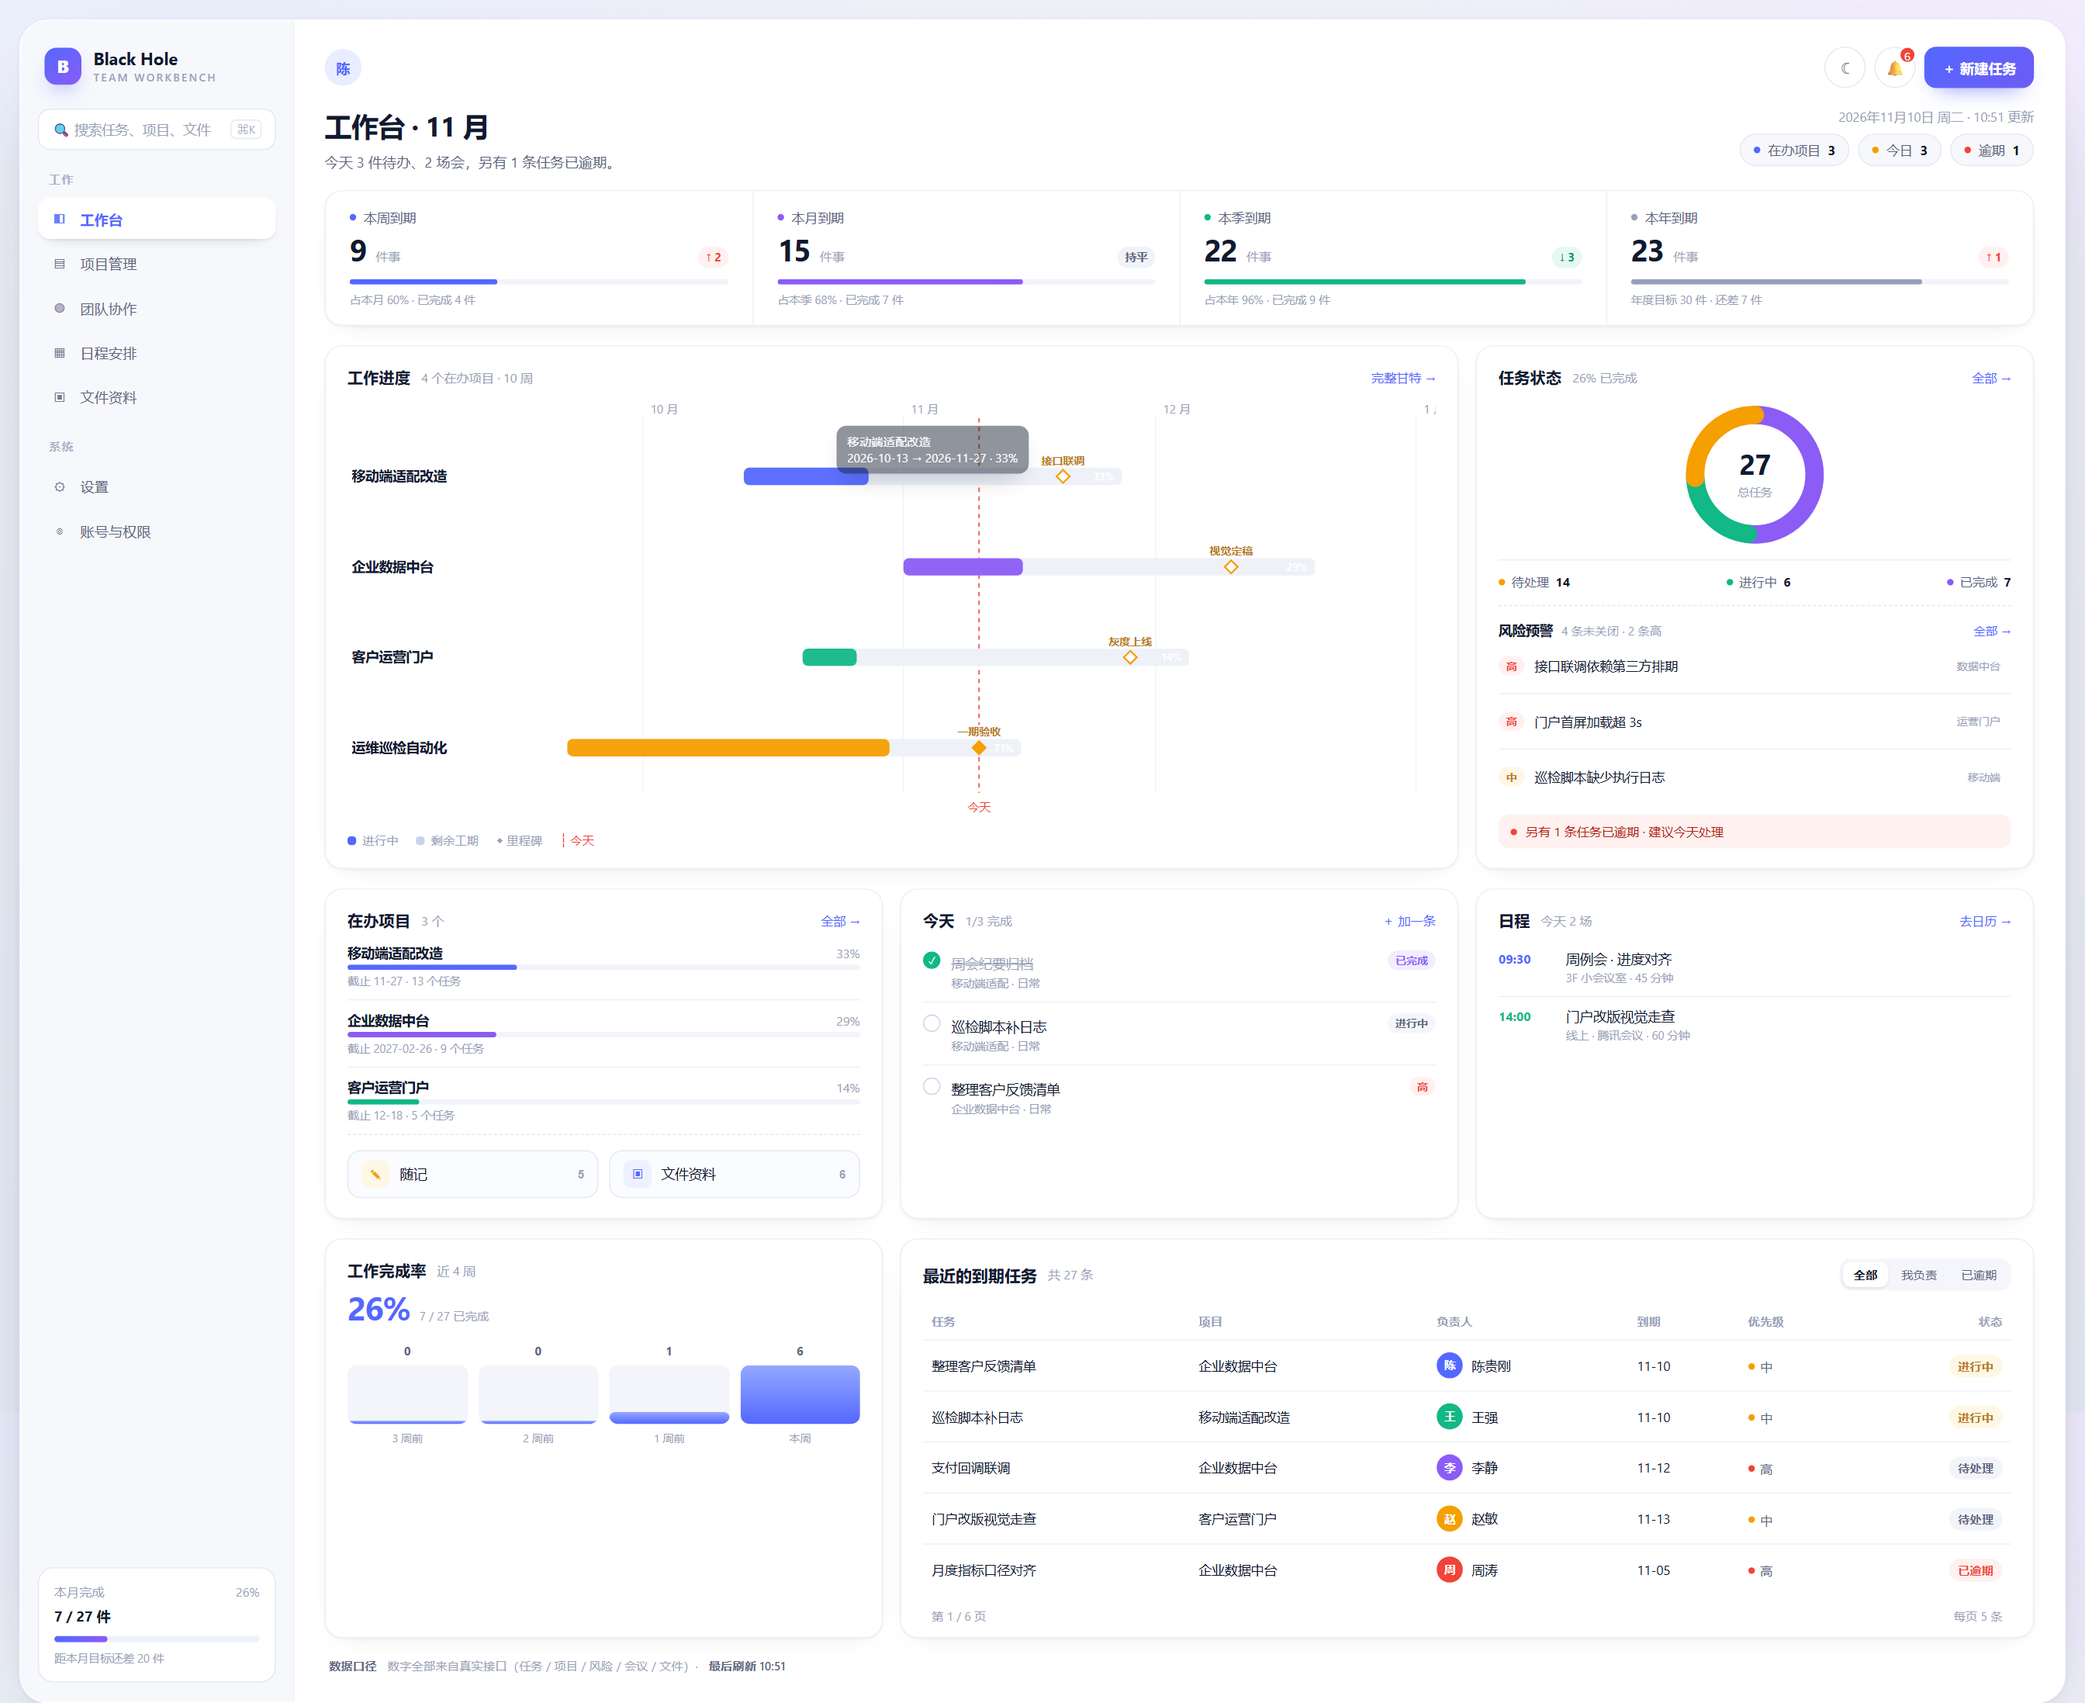
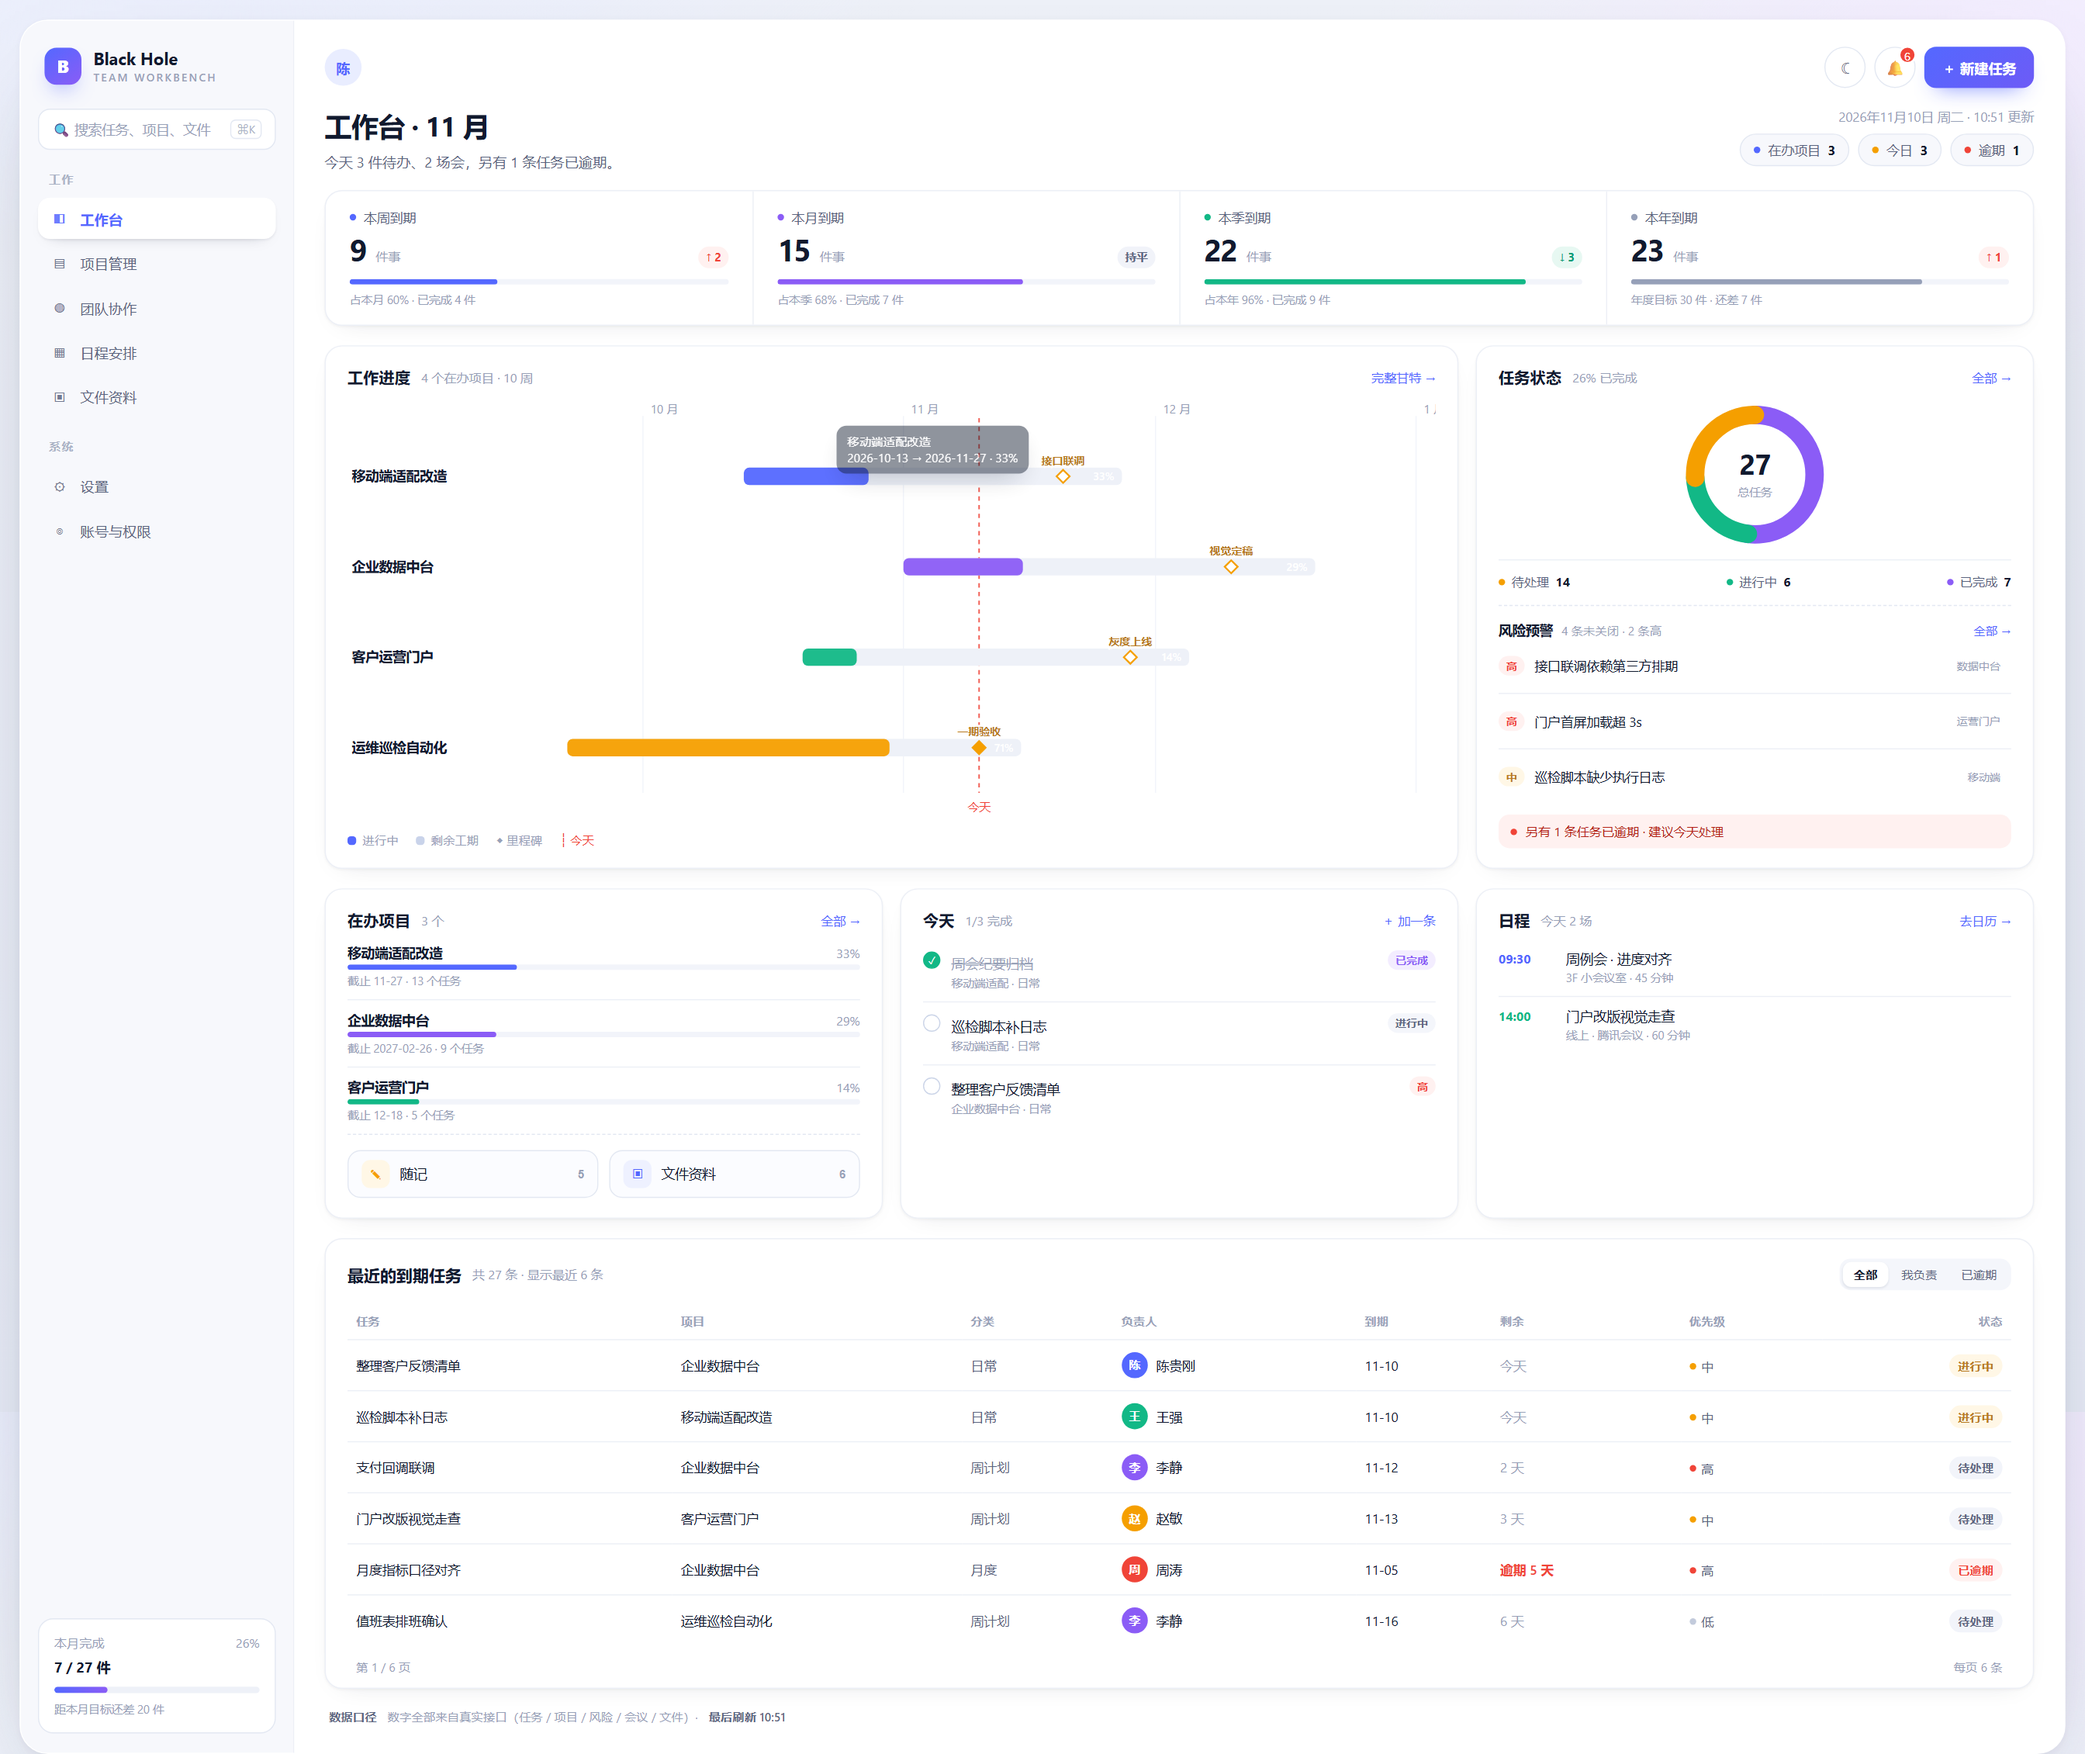
docs(demo): 工作完成率移出工作台（归统计），任务表改通栏 8 列
- 工作完成率属管理统计口径，从工作台主区移除，后续随「工作类别」一起进
  /projects?view=stats 统计 tab
- 底部任务表从 8 列改通栏 12 列，并补「分类」「剩余」两列，避免列距过大显空
- 现在工作台：KPI 四格 / 甘特+任务状态(含风险) / 在办项目(含随记弹层、文件跳转)+今天+日程 / 通栏任务表
- 自检：6 个卡块、表格 6 行 8 列、甘特 12 元素+4 菱形、弹层可开、无 console 错误

diff --git a/docs/demo/workbench-demo.html b/docs/demo/workbench-demo.html
@@ -178,7 +178,7 @@
   .bc .lb{font-size:10px;color:var(--muted);white-space:nowrap}
 
   /* 表格 */
-  .table-card{grid-column:span 8;padding-bottom:6px}
+  .table-card{grid-column:span 12;padding-bottom:6px}
   .tb-head{display:flex;align-items:center;gap:10px;margin-bottom:12px}
   .tb-head h3{margin:0;font-size:15px;font-weight:720}
   .tb-head .sub{font-size:11.5px;color:var(--muted)}
@@ -405,35 +405,25 @@
       </div>
     </section>
 
-    <!-- 完成率 + 表格 -->
+    <!-- 最近的到期任务（通栏） -->
     <section class="row">
-      <div class="card c4">
-        <div class="card-h"><h3>工作完成率</h3><span class="sub">近 4 周</span></div>
-        <div class="rate-num"><b>26%</b><span>7 / 27 已完成</span></div>
-        <div class="bars">
-          <div class="bc"><span class="v">0</span><div class="tk"><i style="height:5%"></i></div><span class="lb">3 周前</span></div>
-          <div class="bc"><span class="v">0</span><div class="tk"><i style="height:5%"></i></div><span class="lb">2 周前</span></div>
-          <div class="bc"><span class="v">1</span><div class="tk"><i style="height:20%"></i></div><span class="lb">1 周前</span></div>
-          <div class="bc"><span class="v">6</span><div class="tk"><i style="height:100%"></i></div><span class="lb">本周</span></div>
-        </div>
-      </div>
-
       <div class="card table-card">
         <div class="tb-head">
-          <h3>最近的到期任务</h3><span class="sub">共 27 条</span>
+          <h3>最近的到期任务</h3><span class="sub">共 27 条 · 显示最近 6 条</span>
           <div class="seg"><button class="on">全部</button><button>我负责</button><button>已逾期</button></div>
         </div>
         <table class="tbl">
-          <thead><tr><th>任务</th><th>项目</th><th>负责人</th><th>到期</th><th>优先级</th><th style="text-align:right">状态</th></tr></thead>
+          <thead><tr><th>任务</th><th>项目</th><th>分类</th><th>负责人</th><th>到期</th><th>剩余</th><th>优先级</th><th style="text-align:right">状态</th></tr></thead>
           <tbody>
-            <tr><td>整理客户反馈清单</td><td>企业数据中台</td><td><div class="who"><span class="av" style="background:#5468ff">陈</span>陈贵刚</div></td><td>11-10</td><td><span class="pri m"><i></i>中</span></td><td style="text-align:right"><span class="stt doing">进行中</span></td></tr>
-            <tr><td>巡检脚本补日志</td><td>移动端适配改造</td><td><div class="who"><span class="av" style="background:#12b886">王</span>王强</div></td><td>11-10</td><td><span class="pri m"><i></i>中</span></td><td style="text-align:right"><span class="stt doing">进行中</span></td></tr>
-            <tr><td>支付回调联调</td><td>企业数据中台</td><td><div class="who"><span class="av" style="background:#8b5cf6">李</span>李静</div></td><td>11-12</td><td><span class="pri h"><i></i>高</span></td><td style="text-align:right"><span class="stt todo">待处理</span></td></tr>
-            <tr><td>门户改版视觉走查</td><td>客户运营门户</td><td><div class="who"><span class="av" style="background:#f59f00">赵</span>赵敏</div></td><td>11-13</td><td><span class="pri m"><i></i>中</span></td><td style="text-align:right"><span class="stt todo">待处理</span></td></tr>
-            <tr><td>月度指标口径对齐</td><td>企业数据中台</td><td><div class="who"><span class="av" style="background:#f04438">周</span>周涛</div></td><td>11-05</td><td><span class="pri h"><i></i>高</span></td><td style="text-align:right"><span class="stt late">已逾期</span></td></tr>
+            <tr><td>整理客户反馈清单</td><td>企业数据中台</td><td><span style="color:#5b6580">日常</span></td><td><div class="who"><span class="av" style="background:#5468ff">陈</span>陈贵刚</div></td><td>11-10</td><td><span style="color:#98a2b8">今天</span></td><td><span class="pri m"><i></i>中</span></td><td style="text-align:right"><span class="stt doing">进行中</span></td></tr>
+            <tr><td>巡检脚本补日志</td><td>移动端适配改造</td><td><span style="color:#5b6580">日常</span></td><td><div class="who"><span class="av" style="background:#12b886">王</span>王强</div></td><td>11-10</td><td><span style="color:#98a2b8">今天</span></td><td><span class="pri m"><i></i>中</span></td><td style="text-align:right"><span class="stt doing">进行中</span></td></tr>
+            <tr><td>支付回调联调</td><td>企业数据中台</td><td><span style="color:#5b6580">周计划</span></td><td><div class="who"><span class="av" style="background:#8b5cf6">李</span>李静</div></td><td>11-12</td><td><span style="color:#98a2b8">2 天</span></td><td><span class="pri h"><i></i>高</span></td><td style="text-align:right"><span class="stt todo">待处理</span></td></tr>
+            <tr><td>门户改版视觉走查</td><td>客户运营门户</td><td><span style="color:#5b6580">周计划</span></td><td><div class="who"><span class="av" style="background:#f59f00">赵</span>赵敏</div></td><td>11-13</td><td><span style="color:#98a2b8">3 天</span></td><td><span class="pri m"><i></i>中</span></td><td style="text-align:right"><span class="stt todo">待处理</span></td></tr>
+            <tr><td>月度指标口径对齐</td><td>企业数据中台</td><td><span style="color:#5b6580">月度</span></td><td><div class="who"><span class="av" style="background:#f04438">周</span>周涛</div></td><td>11-05</td><td><span style="color:#f04438;font-weight:600">逾期 5 天</span></td><td><span class="pri h"><i></i>高</span></td><td style="text-align:right"><span class="stt late">已逾期</span></td></tr>
+            <tr><td>值班表排班确认</td><td>运维巡检自动化</td><td><span style="color:#5b6580">周计划</span></td><td><div class="who"><span class="av" style="background:#8b5cf6">李</span>李静</div></td><td>11-16</td><td><span style="color:#98a2b8">6 天</span></td><td><span class="pri l"><i></i>低</span></td><td style="text-align:right"><span class="stt todo">待处理</span></td></tr>
           </tbody>
         </table>
-        <div class="pager"><span>第 1 / 6 页</span><span>每页 5 条</span></div>
+        <div class="pager"><span>第 1 / 6 页</span><span>每页 6 条</span></div>
       </div>
     </section>
 
